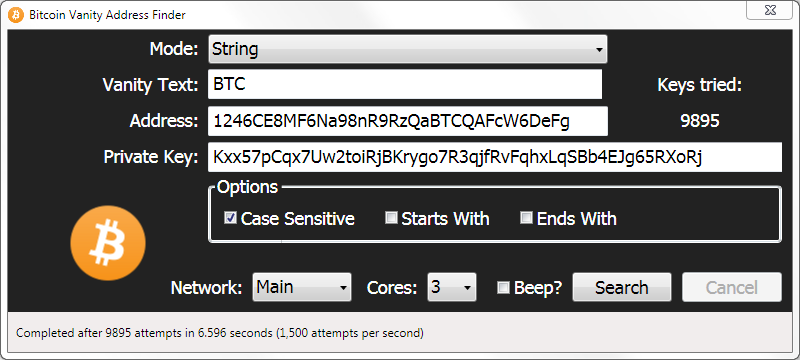
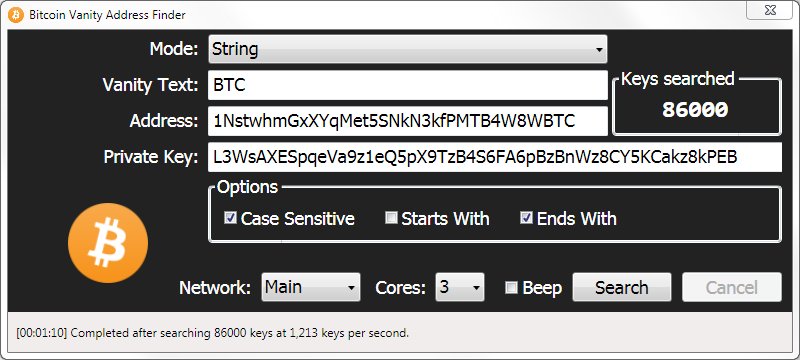
UI tweaks.

diff --git a/BitcoinVanityAddressFinder/MainWindow.xaml b/BitcoinVanityAddressFinder/MainWindow.xaml
@@ -133,11 +133,11 @@
              Margin="0,4,10,2"
              Text="{Binding PrivateKey, FallbackValue='L1wbKXkArGtdAZKiRjz52NyHVrSxH9eMgQ3FixEf2Vz4yitvGeu6'}" />
     <!--  End Private Key  -->
-    <!--  Begin Counter  -->
+    <!--  Begin Keys Searched  -->
     <GroupBox Grid.Row="1"
               Grid.RowSpan="2"
               Grid.Column="2"
-              Margin="0,0,10,0"
+              Margin="0,0,10,2"
               Foreground="White"
               Header="Keys searched">
       <Label HorizontalAlignment="Center"
@@ -146,7 +146,7 @@
              FontSize="24"
              FontWeight="Bold" />
     </GroupBox>
-    <!--  End Counter  -->
+    <!--  End Keys Searched  -->
     <!--  Begin Options  -->
     <GroupBox Grid.Row="4"
               Grid.Column="1"
